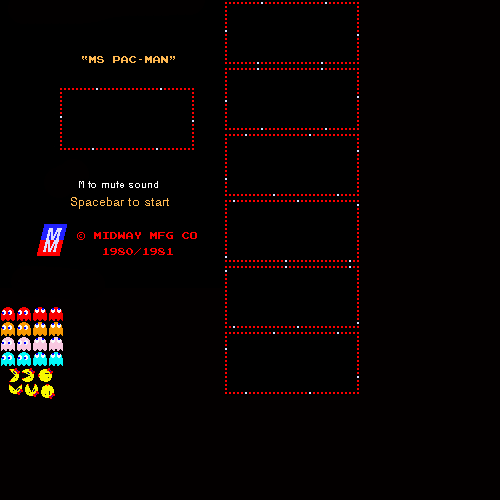
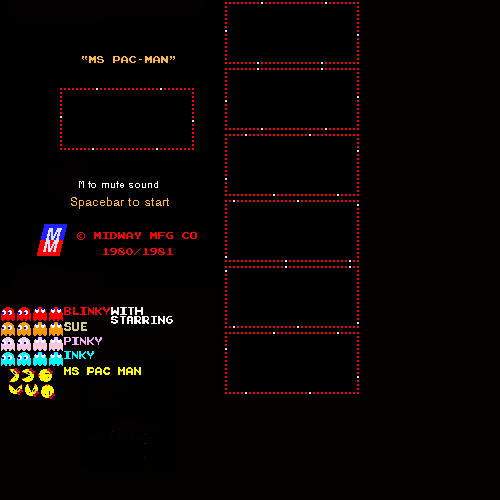
Implemented the names in the menu
time-> 00:07:36

Changed region(s): [[0.12, 0.6, 0.36, 0.75]]

diff --git a/Ms. Pacman/ModuleMenu.cpp b/Ms. Pacman/ModuleMenu.cpp
@@ -21,6 +21,14 @@ ModuleMenu::ModuleMenu()
 {
 	// Background
 	background = { 0, 0, 224, 288 };
+	With = { 111, 307, 32, 8 };
+	Blinky = { 64, 307, 46, 8 };
+	Sue = { 64, 322, 23, 9 };
+	Pinky = { 64, 337, 38, 8 };
+	Inky = { 64, 351, 30, 8 };
+	Starring = { 111 , 316, 62, 8 };
+	MsPacMan = { 64, 367, 77, 8 };
+	voidspace = { 86, 457, 77, 9 };
 
 	// Rectangle Animation
 	Rectangle.PushBack({ 225, 1, 134, 63 });
@@ -134,6 +142,8 @@ update_status ModuleMenu::Update()
 	// Red ghost
 	if (now >= total_time_red)
 	{
+		App->render->Blit(graphics, 82, 102, &With, 1.0f);
+		App->render->Blit(graphics, 106, 131, &Blinky, 1.0f);
 		if (red.x>=40) // left
 		{
 			red.x -= speed_left;
@@ -155,6 +165,9 @@ update_status ModuleMenu::Update()
 	{
 		if (pink.x >= 40) // left
 		{
+			App->render->Blit(graphics, 82, 102, &voidspace, 1.0f);
+			App->render->Blit(graphics, 106, 131, &voidspace, 1.0f);
+			App->render->Blit(graphics, 106, 131, &Pinky, 1.0f);
 			pink.x -= speed_left;
 			App->render->Blit(graphics, pink.x, pink.y, &Pink_left.GetCurrentFrame(), 1.0f);
 		}
@@ -175,6 +188,8 @@ update_status ModuleMenu::Update()
 	{
 		if (blue.x >= 40) // left
 		{
+			App->render->Blit(graphics, 106, 131, &voidspace, 1.0f);
+			App->render->Blit(graphics, 114, 131, &Inky, 1.0f);
 			blue.x -= speed_left;
 			App->render->Blit(graphics, blue.x, blue.y, &Blue_left.GetCurrentFrame(), 1.0f);
 		}
@@ -194,6 +209,8 @@ update_status ModuleMenu::Update()
 	{
 		if (orange.x >= 40) // left
 		{
+			App->render->Blit(graphics, 114, 131, &voidspace, 1.0f);
+			App->render->Blit(graphics, 118, 131, &Sue, 1.0f);
 			orange.x -= speed_left;
 			App->render->Blit(graphics, orange.x, orange.y, &Orange_left.GetCurrentFrame(), 1.0f);
 		}
@@ -212,6 +229,9 @@ update_status ModuleMenu::Update()
 	{
 		if (pacman.x >= 116) // left
 		{
+			App->render->Blit(graphics, 82, 131, &voidspace, 1.0f);
+			App->render->Blit(graphics, 82, 102, &Starring, 1.0f);
+			App->render->Blit(graphics, 82, 131, &MsPacMan, 1.0f);
 			pacman.x -= speed_left;
 			App->render->Blit(graphics, pacman.x, pacman.y, &Pacman_left.GetCurrentFrame(), 1.0f);
 		}

diff --git a/Ms. Pacman/ModuleMenu.h b/Ms. Pacman/ModuleMenu.h
@@ -48,6 +48,15 @@ public:
 	
 	SDL_Rect background;
 
+	SDL_Rect Blinky;
+	SDL_Rect Pinky;
+	SDL_Rect Sue;
+	SDL_Rect Inky;
+	SDL_Rect Starring;
+	SDL_Rect With;
+	SDL_Rect MsPacMan;
+	SDL_Rect voidspace;
+
 	//Time control
 	Uint32 start_time = 0;
 	Uint32 total_time_red = 0;
